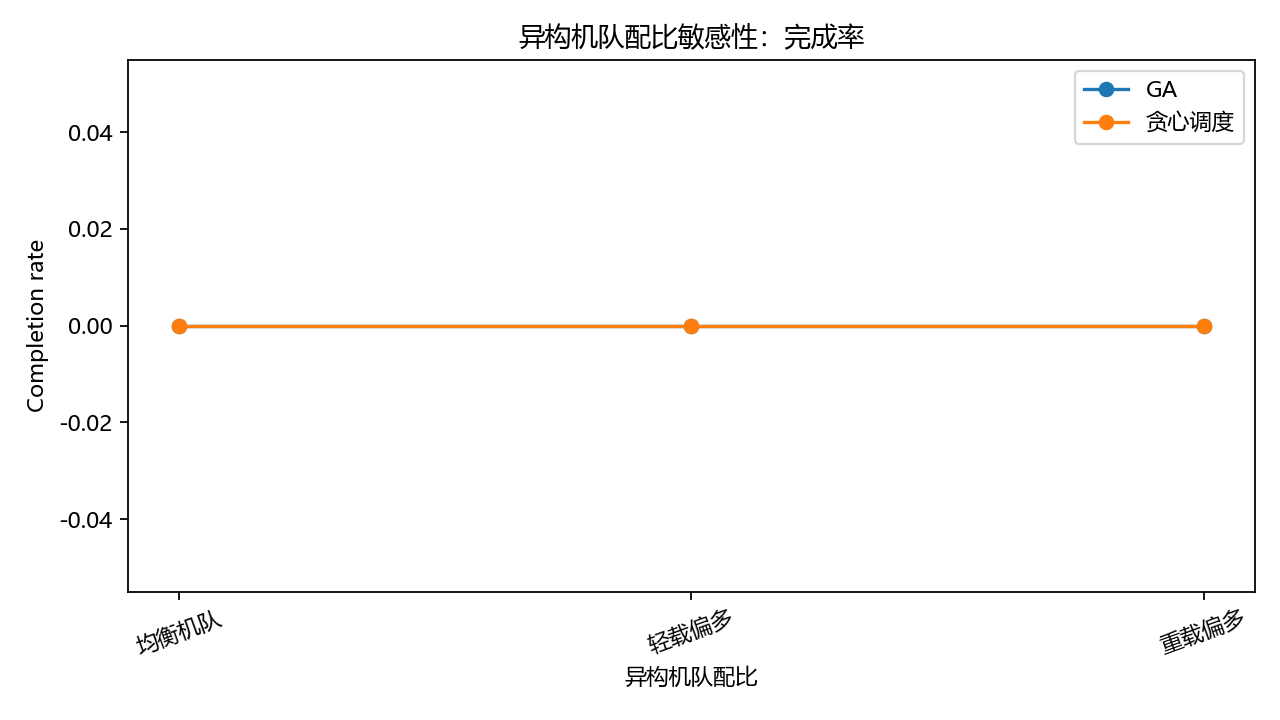
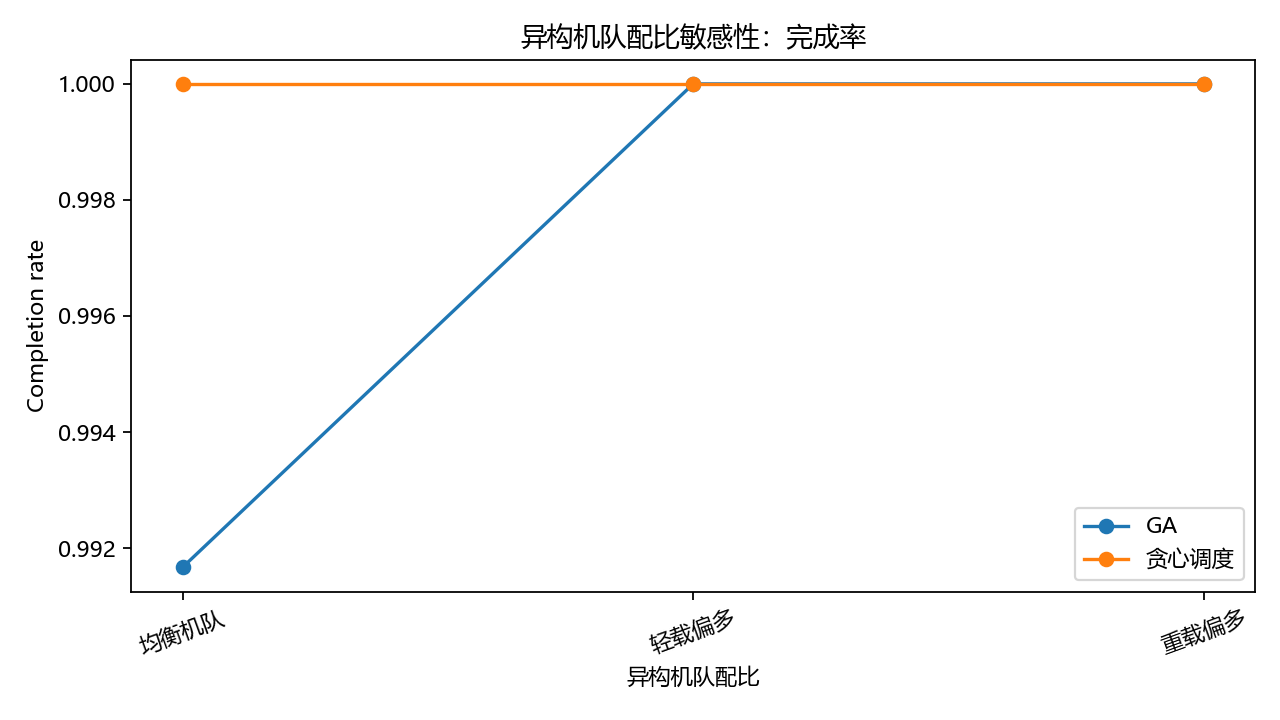
fix(results): 重生成 conclusion 实验的聚合产物（不重跑任何实验）
用已存在的 raw_runs.csv（68 行、成功 68/68）重跑 _aggregate -> _plot -> _write_summary，
把上一版因键名缺陷写成 0.0 的产物修正为真实值。实验本身未重新执行，Seed、配置、
原始逐次结果全部原样保留。

修正后（algorithm_comparison，5 次重复均值）：
  算法      完成率  超时率  平均时延  空载率  顺路接入次数
  贪心调度  1.0     0.0533  4.22      0.4939  0.0
  OR-Tools  1.0     0.0800  6.42      0.4480  4.2
  GA        1.0     0.0767  6.23      0.4498  4.4
  PSO       1.0     0.0800  6.32      0.4469  4.2

要点：完成率在 4 算法 × 5 Seed 上全部饱和为 1.0，主指标零区分度；可分辨的差异集中在
空载率、禁飞区绕飞次数、总飞行距离与顺路接入次数（贪心为 0，其余约 4.2-4.4）。
敏感性表本身有区分度：task_density 完成率 0.942-1.0，fleet_mix 0.992-1.0。

附带影响：_aggregate 会同步写 results/compare/one_click_latest.csv，因此控制台
「算法层」对比页的 greedy/ga/pso/ortools 四行数据源已从手工 CSV（其中 ga 为 600 步/30
任务）切换为本次结项结果（约 2112-2270 步/60 任务），四者分母一致、可比。

diff --git a/results/experiments/conclusion_20260911-043701/summary.md b/results/experiments/conclusion_20260911-043701/summary.md
@@ -2,16 +2,16 @@
 
 - 预设：标准结项实验
 - 成功运行：68/68
-- 生成时间：2026-09-11 05:05:37
+- 生成时间：2026-09-28 02:23:30
 - 公平性：同一实验条件下不同算法使用相同 Seed。
 - 隔离性：每次运行使用独立 simulation.json 副本，未改写主配置。
 
 ## 核心算法对比
 
-- **贪心调度**：完成率 0.00%，超时率 0.00%，无人机利用率 0.00%，空载率 0.00%，机巢周转率 0.0000。
-- **OR-Tools**：完成率 0.00%，超时率 0.00%，无人机利用率 0.00%，空载率 0.00%，机巢周转率 0.0000。
-- **GA**：完成率 0.00%，超时率 0.00%，无人机利用率 0.00%，空载率 0.00%，机巢周转率 0.0000。
-- **PSO**：完成率 0.00%，超时率 0.00%，无人机利用率 0.00%，空载率 0.00%，机巢周转率 0.0000。
+- **贪心调度**：完成率 100.00%，超时率 5.33%，无人机利用率 49.87%，空载率 49.39%，机巢周转率 0.9600。
+- **OR-Tools**：完成率 100.00%，超时率 8.00%，无人机利用率 50.68%，空载率 44.80%，机巢周转率 0.8600。
+- **GA**：完成率 100.00%，超时率 7.67%，无人机利用率 50.84%，空载率 44.98%，机巢周转率 0.8600。
+- **PSO**：完成率 100.00%，超时率 8.00%，无人机利用率 49.91%，空载率 44.69%，机巢周转率 0.8800。
 
 ## GA 与 Greedy 的配对 Seed 描述性比较
 
@@ -47,7 +47,6 @@
 - algorithm_comparison_stats: `algorithm_comparison_stats.csv`
 - paired_ga_vs_greedy: `paired_ga_vs_greedy.csv`
 - compare_latest: `C:\Users\yyyy\AppData\Roaming\TRAE SOLO CN\ModularData\ai-agent\work-mode-projects\6a91893e4cc261f69a0a52a0\drone-scheduling\results\compare\one_click_latest.csv`
-- reproducibility: `reproducibility.json`
 - figure: `figures\algorithm_completion_rate.png`
 - figure: `figures\algorithm_timeout_rate.png`
 - figure: `figures\algorithm_utilization.png`
